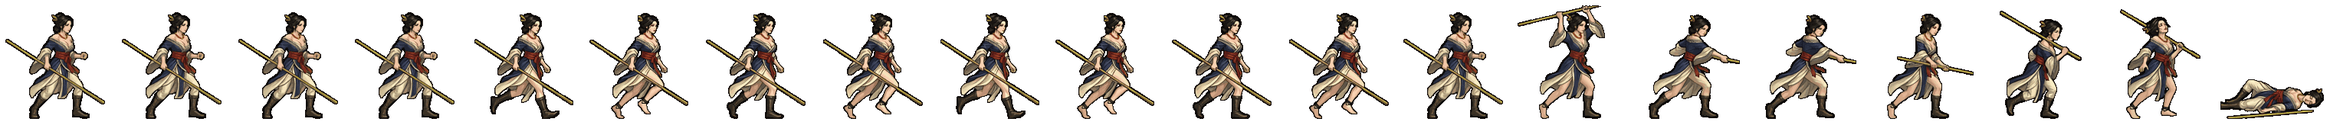
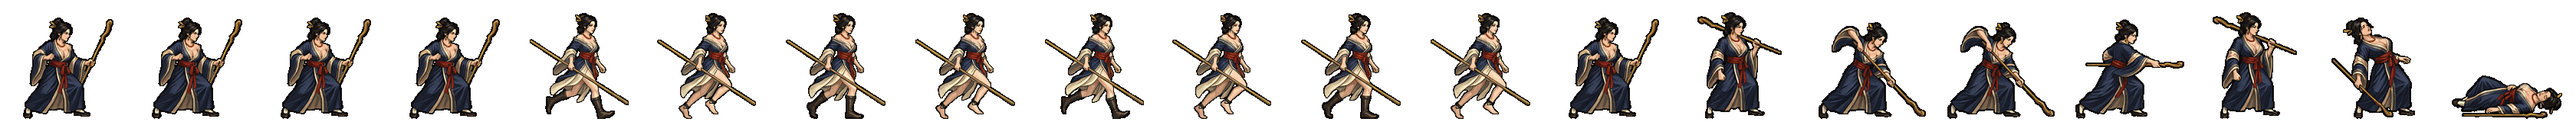
유천간 띠: 동작 8컷만 새로 (제미나이 u/0 · 초상만) — 남색 도포·붉은 띠·벼이삭 비녀, 지팡이 전체가 칸 안 (걷기는 그대로)
Claude-Session: https://claude.ai/code/session_01TRiuN9kn81xgdziumEqNAF

Changed region(s): [[0.0, 0.0312, 1.0, 0.9688]]

diff --git a/src/realm/data/spritePx.ts b/src/realm/data/spritePx.ts
@@ -1,2 +1,2 @@
 /** public/realm/anim-px/manifest.json 의 사본 — tools/sprite-normalize.mjs 가 만든다 (손으로 고치지 말 것). 칸 [가로, 세로] · feet = 발 줄(칸 위에서 y) · bodyPx = 서 있는 몸 키 */
-export const SPRITE_PX: Readonly<Record<string, { readonly cell: readonly [number, number]; readonly feet: number; readonly bodyPx: number; readonly kind: 'general' | 'soldier' | 'folk' | 'crowd'; readonly cells: number }>> = {"axe":{"cell":[166,128],"feet":126,"bodyPx":124,"kind":"soldier","cells":20},"bandit-chief":{"cell":[116,128],"feet":126,"bodyPx":117,"kind":"soldier","cells":20},"bandit-club":{"cell":[127,128],"feet":126,"bodyPx":116,"kind":"soldier","cells":20},"boat":{"cell":[269,128],"feet":126,"bodyPx":126,"kind":"soldier","cells":20},"bow":{"cell":[503,128],"feet":126,"bodyPx":127,"kind":"soldier","cells":20},"crossbow":{"cell":[614,128],"feet":126,"bodyPx":126,"kind":"soldier","cells":20},"gen-adogan":{"cell":[144,160],"feet":156,"bodyPx":70,"kind":"general","cells":20},"gen-alpyeong":{"cell":[144,160],"feet":156,"bodyPx":70,"kind":"general","cells":20},"gen-ara":{"cell":[160,160],"feet":156,"bodyPx":70,"kind":"general","cells":20},"gen-areum":{"cell":[160,160],"feet":156,"bodyPx":70,"kind":"general","cells":20},"gen-aryeong":{"cell":[208,160],"feet":156,"bodyPx":70,"kind":"general","cells":20},"gen-bakdal":{"cell":[160,160],"feet":156,"bodyPx":70,"kind":"general","cells":20},"gen-baram":{"cell":[176,160],"feet":156,"bodyPx":70,"kind":"general","cells":20},"gen-bdanbi":{"cell":[152,160],"feet":156,"bodyPx":70,"kind":"general","cells":20},"gen-beom":{"cell":[168,160],"feet":156,"bodyPx":70,"kind":"general","cells":20},"gen-beombal":{"cell":[216,160],"feet":156,"bodyPx":70,"kind":"general","cells":20},"gen-beomi":{"cell":[160,160],"feet":156,"bodyPx":70,"kind":"general","cells":20},"gen-bira":{"cell":[176,160],"feet":156,"bodyPx":70,"kind":"general","cells":20},"gen-biryu":{"cell":[160,160],"feet":156,"bodyPx":73,"kind":"general","cells":20},"gen-budeul":{"cell":[248,160],"feet":156,"bodyPx":70,"kind":"general","cells":20},"gen-byeol":{"cell":[176,160],"feet":156,"bodyPx":70,"kind":"general","cells":20},"gen-daemusin":{"cell":[152,160],"feet":156,"bodyPx":70,"kind":"general","cells":20},"gen-daeso":{"cell":[176,160],"feet":156,"bodyPx":70,"kind":"general","cells":20},"gen-dallae2":{"cell":[168,160],"feet":156,"bodyPx":70,"kind":"general","cells":20},"gen-dalli":{"cell":[152,160],"feet":156,"bodyPx":70,"kind":"general","cells":20},"gen-damul":{"cell":[152,160],"feet":156,"bodyPx":70,"kind":"general","cells":20},"gen-danbi":{"cell":[152,160],"feet":156,"bodyPx":70,"kind":"general","cells":20},"gen-dangung":{"cell":[192,160],"feet":156,"bodyPx":70,"kind":"general","cells":20},"gen-darae":{"cell":[152,160],"feet":156,"bodyPx":70,"kind":"general","cells":20},"gen-dokmudeom":{"cell":[176,160],"feet":156,"bodyPx":70,"kind":"general","cells":20},"gen-duman":{"cell":[248,160],"feet":156,"bodyPx":70,"kind":"general","cells":20},"gen-eomni":{"cell":[160,160],"feet":156,"bodyPx":70,"kind":"general","cells":20},"gen-eureum":{"cell":[144,160],"feet":156,"bodyPx":70,"kind":"general","cells":20},"gen-g-bow":{"cell":[144,160],"feet":156,"bodyPx":70,"kind":"general","cells":20},"gen-g-spear":{"cell":[208,160],"feet":156,"bodyPx":70,"kind":"general","cells":20},"gen-g-sword":{"cell":[192,160],"feet":156,"bodyPx":70,"kind":"general","cells":20},"gen-gaennae":{"cell":[232,160],"feet":156,"bodyPx":70,"kind":"general","cells":20},"gen-gamsil":{"cell":[160,160],"feet":156,"bodyPx":70,"kind":"general","cells":20},"gen-gaon":{"cell":[152,160],"feet":156,"bodyPx":70,"kind":"general","cells":20},"gen-geota":{"cell":[192,160],"feet":156,"bodyPx":69,"kind":"general","cells":20},"gen-geumbawi":{"cell":[160,160],"feet":156,"bodyPx":70,"kind":"general","cells":20},"gen-geumha":{"cell":[192,160],"feet":156,"bodyPx":72,"kind":"general","cells":20},"gen-goeun":{"cell":[144,160],"feet":156,"bodyPx":70,"kind":"general","cells":20},"gen-gom":{"cell":[168,160],"feet":156,"bodyPx":70,"kind":"general","cells":20},"gen-gomok":{"cell":[152,160],"feet":156,"bodyPx":70,"kind":"general","cells":20},"gen-gureum":{"cell":[216,160],"feet":156,"bodyPx":70,"kind":"general","cells":20},"gen-guryema":{"cell":[152,160],"feet":156,"bodyPx":70,"kind":"general","cells":20},"gen-gwaeyu":{"cell":[200,160],"feet":156,"bodyPx":70,"kind":"general","cells":20},"gen-haebi":{"cell":[152,160],"feet":156,"bodyPx":70,"kind":"general","cells":20},"gen-haedal":{"cell":[152,160],"feet":156,"bodyPx":70,"kind":"general","cells":20},"gen-haesol":{"cell":[168,160],"feet":156,"bodyPx":70,"kind":"general","cells":20},"gen-halla":{"cell":[176,160],"feet":156,"bodyPx":70,"kind":"general","cells":20},"gen-heo":{"cell":[144,160],"feet":156,"bodyPx":70,"kind":"general","cells":20},"gen-hneoul":{"cell":[152,160],"feet":156,"bodyPx":70,"kind":"general","cells":20},"gen-hogong":{"cell":[160,160],"feet":156,"bodyPx":70,"kind":"general","cells":20},"gen-hojin":{"cell":[152,160],"feet":156,"bodyPx":70,"kind":"general","cells":20},"gen-horselord":{"cell":[144,160],"feet":156,"bodyPx":70,"kind":"general","cells":20},"gen-hwalmi":{"cell":[192,160],"feet":156,"bodyPx":70,"kind":"general","cells":20},"gen-hyeokgeose":{"cell":[160,160],"feet":156,"bodyPx":70,"kind":"general","cells":20},"gen-hyeopbo":{"cell":[168,160],"feet":156,"bodyPx":70,"kind":"general","cells":20},"gen-irang":{"cell":[160,160],"feet":156,"bodyPx":70,"kind":"general","cells":20},"gen-jibaekho":{"cell":[224,160],"feet":156,"bodyPx":70,"kind":"general","cells":20},"gen-jinha":{"cell":[168,160],"feet":156,"bodyPx":70,"kind":"general","cells":20},"gen-jita":{"cell":[144,160],"feet":156,"bodyPx":70,"kind":"general","cells":20},"gen-jumong":{"cell":[144,160],"feet":156,"bodyPx":70,"kind":"general","cells":20},"gen-keundol":{"cell":[152,160],"feet":156,"bodyPx":70,"kind":"general","cells":20},"gen-maehwa":{"cell":[144,160],"feet":156,"bodyPx":70,"kind":"general","cells":20},"gen-maenun":{"cell":[144,160],"feet":156,"bodyPx":70,"kind":"general","cells":20},"gen-malgalgi":{"cell":[168,160],"feet":156,"bodyPx":70,"kind":"general","cells":20},"gen-mari":{"cell":[152,160],"feet":156,"bodyPx":70,"kind":"general","cells":20},"gen-maro":{"cell":[160,160],"feet":156,"bodyPx":70,"kind":"general","cells":20},"gen-maryeo":{"cell":[152,160],"feet":156,"bodyPx":70,"kind":"general","cells":20},"gen-mdallae":{"cell":[168,160],"feet":156,"bodyPx":70,"kind":"general","cells":20},"gen-mir":{"cell":[144,160],"feet":156,"bodyPx":70,"kind":"general","cells":20},"gen-mount":{"cell":[232,160],"feet":156,"bodyPx":73,"kind":"general","cells":20},"gen-mulbeom":{"cell":[160,160],"feet":156,"bodyPx":70,"kind":"general","cells":20},"gen-mulsae":{"cell":[168,160],"feet":156,"bodyPx":70,"kind":"general","cells":20},"gen-musoe":{"cell":[152,160],"feet":156,"bodyPx":70,"kind":"general","cells":20},"gen-noeul":{"cell":[160,160],"feet":156,"bodyPx":70,"kind":"general","cells":20},"gen-nuri":{"cell":[168,160],"feet":156,"bodyPx":70,"kind":"general","cells":20},"gen-ocheongan":{"cell":[168,160],"feet":156,"bodyPx":70,"kind":"general","cells":20},"gen-odi":{"cell":[152,160],"feet":156,"bodyPx":70,"kind":"general","cells":20},"gen-odogan":{"cell":[168,160],"feet":156,"bodyPx":70,"kind":"general","cells":20},"gen-ogan":{"cell":[152,160],"feet":156,"bodyPx":70,"kind":"general","cells":20},"gen-oi":{"cell":[152,160],"feet":156,"bodyPx":70,"kind":"general","cells":20},"gen-olddaeso":{"cell":[144,160],"feet":156,"bodyPx":70,"kind":"general","cells":20},"gen-onjo":{"cell":[152,160],"feet":156,"bodyPx":70,"kind":"general","cells":20},"gen-pidogan":{"cell":[152,160],"feet":156,"bodyPx":70,"kind":"general","cells":20},"gen-sagong":{"cell":[160,160],"feet":156,"bodyPx":70,"kind":"general","cells":20},"gen-sdallae":{"cell":[168,160],"feet":156,"bodyPx":70,"kind":"general","cells":20},"gen-sincheongan":{"cell":[168,160],"feet":156,"bodyPx":70,"kind":"general","cells":20},"gen-singwigan":{"cell":[208,160],"feet":156,"bodyPx":70,"kind":"general","cells":20},"gen-sinneoul":{"cell":[176,160],"feet":156,"bodyPx":70,"kind":"general","cells":20},"gen-sobeol":{"cell":[152,160],"feet":156,"bodyPx":70,"kind":"general","cells":20},"gen-soebi":{"cell":[160,160],"feet":156,"bodyPx":70,"kind":"general","cells":20},"gen-soebo":{"cell":[208,160],"feet":156,"bodyPx":72,"kind":"general","cells":20},"gen-soenun":{"cell":[248,160],"feet":156,"bodyPx":70,"kind":"general","cells":20},"gen-sogeumbi":{"cell":[232,160],"feet":156,"bodyPx":70,"kind":"general","cells":20},"gen-songbi":{"cell":[152,160],"feet":156,"bodyPx":70,"kind":"general","cells":20},"gen-songyang":{"cell":[136,160],"feet":156,"bodyPx":70,"kind":"general","cells":20},"gen-sori":{"cell":[208,160],"feet":156,"bodyPx":70,"kind":"general","cells":20},"gen-soseono":{"cell":[208,160],"feet":156,"bodyPx":70,"kind":"general","cells":20},"gen-suro":{"cell":[160,160],"feet":156,"bodyPx":70,"kind":"general","cells":20},"gen-tahae":{"cell":[152,160],"feet":156,"bodyPx":70,"kind":"general","cells":20},"gen-tneoul":{"cell":[152,160],"feet":156,"bodyPx":70,"kind":"general","cells":20},"gen-w-bow":{"cell":[144,160],"feet":156,"bodyPx":70,"kind":"general","cells":20},"gen-w-spear":{"cell":[176,160],"feet":156,"bodyPx":70,"kind":"general","cells":20},"gen-waechief":{"cell":[152,160],"feet":156,"bodyPx":70,"kind":"general","cells":20},"gen-wan":{"cell":[144,160],"feet":156,"bodyPx":70,"kind":"general","cells":20},"gen-yeodogan":{"cell":[176,160],"feet":156,"bodyPx":70,"kind":"general","cells":20},"gen-yucheongan":{"cell":[152,160],"feet":156,"bodyPx":70,"kind":"general","cells":20},"gen-yusugan":{"cell":[168,160],"feet":156,"bodyPx":70,"kind":"general","cells":20},"horse":{"cell":[186,128],"feet":126,"bodyPx":127,"kind":"soldier","cells":20},"marine":{"cell":[298,128],"feet":126,"bodyPx":126,"kind":"soldier","cells":20},"migrant":{"cell":[82,128],"feet":126,"bodyPx":114,"kind":"folk","cells":8},"militia":{"cell":[134,128],"feet":126,"bodyPx":119,"kind":"soldier","cells":20},"pike":{"cell":[380,128],"feet":126,"bodyPx":124,"kind":"soldier","cells":20},"pirate-captain":{"cell":[114,128],"feet":126,"bodyPx":115,"kind":"soldier","cells":20},"pirate-sword":{"cell":[122,128],"feet":126,"bodyPx":114,"kind":"soldier","cells":20},"shield":{"cell":[254,128],"feet":126,"bodyPx":128,"kind":"soldier","cells":20},"spear":{"cell":[438,128],"feet":126,"bodyPx":126,"kind":"soldier","cells":20},"villager-builder":{"cell":[88,128],"feet":126,"bodyPx":113,"kind":"folk","cells":8},"villager-farmer":{"cell":[100,128],"feet":126,"bodyPx":115,"kind":"folk","cells":8},"villager-porter":{"cell":[108,128],"feet":126,"bodyPx":115,"kind":"folk","cells":8},"villager-woman":{"cell":[63,128],"feet":126,"bodyPx":113,"kind":"folk","cells":8},"crowd-b1":{"cell":[69,96],"feet":96,"bodyPx":96,"kind":"crowd","cells":1},"crowd-b2":{"cell":[54,96],"feet":96,"bodyPx":96,"kind":"crowd","cells":1},"crowd-b3":{"cell":[47,96],"feet":96,"bodyPx":96,"kind":"crowd","cells":1},"crowd-b4":{"cell":[49,96],"feet":96,"bodyPx":96,"kind":"crowd","cells":1},"crowd-b5":{"cell":[57,96],"feet":96,"bodyPx":96,"kind":"crowd","cells":1},"crowd-b6":{"cell":[55,96],"feet":96,"bodyPx":96,"kind":"crowd","cells":1},"crowd-f1":{"cell":[69,96],"feet":96,"bodyPx":96,"kind":"crowd","cells":1},"crowd-f2":{"cell":[55,96],"feet":96,"bodyPx":96,"kind":"crowd","cells":1},"crowd-f3":{"cell":[45,96],"feet":96,"bodyPx":96,"kind":"crowd","cells":1},"crowd-f4":{"cell":[53,96],"feet":96,"bodyPx":96,"kind":"crowd","cells":1},"crowd-f5":{"cell":[69,96],"feet":96,"bodyPx":96,"kind":"crowd","cells":1},"crowd-f6":{"cell":[64,96],"feet":96,"bodyPx":96,"kind":"crowd","cells":1},"gen-dalbit":{"cell":[96,72],"feet":72,"bodyPx":72,"kind":"general","cells":20}}
+export const SPRITE_PX: Readonly<Record<string, { readonly cell: readonly [number, number]; readonly feet: number; readonly bodyPx: number; readonly kind: 'general' | 'soldier' | 'folk' | 'crowd'; readonly cells: number }>> = {"axe":{"cell":[166,128],"feet":126,"bodyPx":124,"kind":"soldier","cells":20},"bandit-chief":{"cell":[116,128],"feet":126,"bodyPx":117,"kind":"soldier","cells":20},"bandit-club":{"cell":[127,128],"feet":126,"bodyPx":116,"kind":"soldier","cells":20},"boat":{"cell":[269,128],"feet":126,"bodyPx":126,"kind":"soldier","cells":20},"bow":{"cell":[503,128],"feet":126,"bodyPx":127,"kind":"soldier","cells":20},"crossbow":{"cell":[614,128],"feet":126,"bodyPx":126,"kind":"soldier","cells":20},"gen-adogan":{"cell":[144,160],"feet":156,"bodyPx":70,"kind":"general","cells":20},"gen-alpyeong":{"cell":[144,160],"feet":156,"bodyPx":70,"kind":"general","cells":20},"gen-ara":{"cell":[160,160],"feet":156,"bodyPx":70,"kind":"general","cells":20},"gen-areum":{"cell":[160,160],"feet":156,"bodyPx":70,"kind":"general","cells":20},"gen-aryeong":{"cell":[208,160],"feet":156,"bodyPx":70,"kind":"general","cells":20},"gen-bakdal":{"cell":[160,160],"feet":156,"bodyPx":70,"kind":"general","cells":20},"gen-baram":{"cell":[176,160],"feet":156,"bodyPx":70,"kind":"general","cells":20},"gen-bdanbi":{"cell":[152,160],"feet":156,"bodyPx":70,"kind":"general","cells":20},"gen-beom":{"cell":[168,160],"feet":156,"bodyPx":70,"kind":"general","cells":20},"gen-beombal":{"cell":[216,160],"feet":156,"bodyPx":70,"kind":"general","cells":20},"gen-beomi":{"cell":[160,160],"feet":156,"bodyPx":70,"kind":"general","cells":20},"gen-bira":{"cell":[176,160],"feet":156,"bodyPx":70,"kind":"general","cells":20},"gen-biryu":{"cell":[160,160],"feet":156,"bodyPx":73,"kind":"general","cells":20},"gen-budeul":{"cell":[248,160],"feet":156,"bodyPx":70,"kind":"general","cells":20},"gen-byeol":{"cell":[176,160],"feet":156,"bodyPx":70,"kind":"general","cells":20},"gen-daemusin":{"cell":[152,160],"feet":156,"bodyPx":70,"kind":"general","cells":20},"gen-daeso":{"cell":[176,160],"feet":156,"bodyPx":70,"kind":"general","cells":20},"gen-dallae2":{"cell":[168,160],"feet":156,"bodyPx":70,"kind":"general","cells":20},"gen-dalli":{"cell":[152,160],"feet":156,"bodyPx":70,"kind":"general","cells":20},"gen-damul":{"cell":[152,160],"feet":156,"bodyPx":70,"kind":"general","cells":20},"gen-danbi":{"cell":[152,160],"feet":156,"bodyPx":70,"kind":"general","cells":20},"gen-dangung":{"cell":[192,160],"feet":156,"bodyPx":70,"kind":"general","cells":20},"gen-darae":{"cell":[152,160],"feet":156,"bodyPx":70,"kind":"general","cells":20},"gen-dokmudeom":{"cell":[176,160],"feet":156,"bodyPx":70,"kind":"general","cells":20},"gen-duman":{"cell":[248,160],"feet":156,"bodyPx":70,"kind":"general","cells":20},"gen-eomni":{"cell":[160,160],"feet":156,"bodyPx":70,"kind":"general","cells":20},"gen-eureum":{"cell":[144,160],"feet":156,"bodyPx":70,"kind":"general","cells":20},"gen-g-bow":{"cell":[144,160],"feet":156,"bodyPx":70,"kind":"general","cells":20},"gen-g-spear":{"cell":[208,160],"feet":156,"bodyPx":70,"kind":"general","cells":20},"gen-g-sword":{"cell":[192,160],"feet":156,"bodyPx":70,"kind":"general","cells":20},"gen-gaennae":{"cell":[232,160],"feet":156,"bodyPx":70,"kind":"general","cells":20},"gen-gamsil":{"cell":[160,160],"feet":156,"bodyPx":70,"kind":"general","cells":20},"gen-gaon":{"cell":[152,160],"feet":156,"bodyPx":70,"kind":"general","cells":20},"gen-geota":{"cell":[192,160],"feet":156,"bodyPx":69,"kind":"general","cells":20},"gen-geumbawi":{"cell":[160,160],"feet":156,"bodyPx":70,"kind":"general","cells":20},"gen-geumha":{"cell":[192,160],"feet":156,"bodyPx":72,"kind":"general","cells":20},"gen-goeun":{"cell":[144,160],"feet":156,"bodyPx":70,"kind":"general","cells":20},"gen-gom":{"cell":[168,160],"feet":156,"bodyPx":70,"kind":"general","cells":20},"gen-gomok":{"cell":[152,160],"feet":156,"bodyPx":70,"kind":"general","cells":20},"gen-gureum":{"cell":[216,160],"feet":156,"bodyPx":70,"kind":"general","cells":20},"gen-guryema":{"cell":[152,160],"feet":156,"bodyPx":70,"kind":"general","cells":20},"gen-gwaeyu":{"cell":[200,160],"feet":156,"bodyPx":70,"kind":"general","cells":20},"gen-haebi":{"cell":[152,160],"feet":156,"bodyPx":70,"kind":"general","cells":20},"gen-haedal":{"cell":[152,160],"feet":156,"bodyPx":70,"kind":"general","cells":20},"gen-haesol":{"cell":[168,160],"feet":156,"bodyPx":70,"kind":"general","cells":20},"gen-halla":{"cell":[176,160],"feet":156,"bodyPx":70,"kind":"general","cells":20},"gen-heo":{"cell":[144,160],"feet":156,"bodyPx":70,"kind":"general","cells":20},"gen-hneoul":{"cell":[152,160],"feet":156,"bodyPx":70,"kind":"general","cells":20},"gen-hogong":{"cell":[160,160],"feet":156,"bodyPx":70,"kind":"general","cells":20},"gen-hojin":{"cell":[152,160],"feet":156,"bodyPx":70,"kind":"general","cells":20},"gen-horselord":{"cell":[144,160],"feet":156,"bodyPx":70,"kind":"general","cells":20},"gen-hwalmi":{"cell":[192,160],"feet":156,"bodyPx":70,"kind":"general","cells":20},"gen-hyeokgeose":{"cell":[160,160],"feet":156,"bodyPx":70,"kind":"general","cells":20},"gen-hyeopbo":{"cell":[168,160],"feet":156,"bodyPx":70,"kind":"general","cells":20},"gen-irang":{"cell":[160,160],"feet":156,"bodyPx":70,"kind":"general","cells":20},"gen-jibaekho":{"cell":[224,160],"feet":156,"bodyPx":70,"kind":"general","cells":20},"gen-jinha":{"cell":[168,160],"feet":156,"bodyPx":70,"kind":"general","cells":20},"gen-jita":{"cell":[144,160],"feet":156,"bodyPx":70,"kind":"general","cells":20},"gen-jumong":{"cell":[144,160],"feet":156,"bodyPx":70,"kind":"general","cells":20},"gen-keundol":{"cell":[152,160],"feet":156,"bodyPx":70,"kind":"general","cells":20},"gen-maehwa":{"cell":[144,160],"feet":156,"bodyPx":70,"kind":"general","cells":20},"gen-maenun":{"cell":[144,160],"feet":156,"bodyPx":70,"kind":"general","cells":20},"gen-malgalgi":{"cell":[168,160],"feet":156,"bodyPx":70,"kind":"general","cells":20},"gen-mari":{"cell":[152,160],"feet":156,"bodyPx":70,"kind":"general","cells":20},"gen-maro":{"cell":[160,160],"feet":156,"bodyPx":70,"kind":"general","cells":20},"gen-maryeo":{"cell":[152,160],"feet":156,"bodyPx":70,"kind":"general","cells":20},"gen-mdallae":{"cell":[168,160],"feet":156,"bodyPx":70,"kind":"general","cells":20},"gen-mir":{"cell":[144,160],"feet":156,"bodyPx":70,"kind":"general","cells":20},"gen-mount":{"cell":[232,160],"feet":156,"bodyPx":73,"kind":"general","cells":20},"gen-mulbeom":{"cell":[160,160],"feet":156,"bodyPx":70,"kind":"general","cells":20},"gen-mulsae":{"cell":[168,160],"feet":156,"bodyPx":70,"kind":"general","cells":20},"gen-musoe":{"cell":[152,160],"feet":156,"bodyPx":70,"kind":"general","cells":20},"gen-noeul":{"cell":[160,160],"feet":156,"bodyPx":70,"kind":"general","cells":20},"gen-nuri":{"cell":[168,160],"feet":156,"bodyPx":70,"kind":"general","cells":20},"gen-ocheongan":{"cell":[168,160],"feet":156,"bodyPx":70,"kind":"general","cells":20},"gen-odi":{"cell":[152,160],"feet":156,"bodyPx":70,"kind":"general","cells":20},"gen-odogan":{"cell":[168,160],"feet":156,"bodyPx":70,"kind":"general","cells":20},"gen-ogan":{"cell":[152,160],"feet":156,"bodyPx":70,"kind":"general","cells":20},"gen-oi":{"cell":[152,160],"feet":156,"bodyPx":70,"kind":"general","cells":20},"gen-olddaeso":{"cell":[144,160],"feet":156,"bodyPx":70,"kind":"general","cells":20},"gen-onjo":{"cell":[152,160],"feet":156,"bodyPx":70,"kind":"general","cells":20},"gen-pidogan":{"cell":[152,160],"feet":156,"bodyPx":70,"kind":"general","cells":20},"gen-sagong":{"cell":[160,160],"feet":156,"bodyPx":70,"kind":"general","cells":20},"gen-sdallae":{"cell":[168,160],"feet":156,"bodyPx":70,"kind":"general","cells":20},"gen-sincheongan":{"cell":[168,160],"feet":156,"bodyPx":70,"kind":"general","cells":20},"gen-singwigan":{"cell":[208,160],"feet":156,"bodyPx":70,"kind":"general","cells":20},"gen-sinneoul":{"cell":[176,160],"feet":156,"bodyPx":70,"kind":"general","cells":20},"gen-sobeol":{"cell":[152,160],"feet":156,"bodyPx":70,"kind":"general","cells":20},"gen-soebi":{"cell":[160,160],"feet":156,"bodyPx":70,"kind":"general","cells":20},"gen-soebo":{"cell":[208,160],"feet":156,"bodyPx":72,"kind":"general","cells":20},"gen-soenun":{"cell":[248,160],"feet":156,"bodyPx":70,"kind":"general","cells":20},"gen-sogeumbi":{"cell":[232,160],"feet":156,"bodyPx":70,"kind":"general","cells":20},"gen-songbi":{"cell":[152,160],"feet":156,"bodyPx":70,"kind":"general","cells":20},"gen-songyang":{"cell":[136,160],"feet":156,"bodyPx":70,"kind":"general","cells":20},"gen-sori":{"cell":[208,160],"feet":156,"bodyPx":70,"kind":"general","cells":20},"gen-soseono":{"cell":[208,160],"feet":156,"bodyPx":70,"kind":"general","cells":20},"gen-suro":{"cell":[160,160],"feet":156,"bodyPx":70,"kind":"general","cells":20},"gen-tahae":{"cell":[152,160],"feet":156,"bodyPx":70,"kind":"general","cells":20},"gen-tneoul":{"cell":[152,160],"feet":156,"bodyPx":70,"kind":"general","cells":20},"gen-w-bow":{"cell":[144,160],"feet":156,"bodyPx":70,"kind":"general","cells":20},"gen-w-spear":{"cell":[176,160],"feet":156,"bodyPx":70,"kind":"general","cells":20},"gen-waechief":{"cell":[152,160],"feet":156,"bodyPx":70,"kind":"general","cells":20},"gen-wan":{"cell":[144,160],"feet":156,"bodyPx":70,"kind":"general","cells":20},"gen-yeodogan":{"cell":[176,160],"feet":156,"bodyPx":70,"kind":"general","cells":20},"gen-yucheongan":{"cell":[168,160],"feet":156,"bodyPx":70,"kind":"general","cells":20},"gen-yusugan":{"cell":[168,160],"feet":156,"bodyPx":70,"kind":"general","cells":20},"horse":{"cell":[186,128],"feet":126,"bodyPx":127,"kind":"soldier","cells":20},"marine":{"cell":[298,128],"feet":126,"bodyPx":126,"kind":"soldier","cells":20},"migrant":{"cell":[82,128],"feet":126,"bodyPx":114,"kind":"folk","cells":8},"militia":{"cell":[134,128],"feet":126,"bodyPx":119,"kind":"soldier","cells":20},"pike":{"cell":[380,128],"feet":126,"bodyPx":124,"kind":"soldier","cells":20},"pirate-captain":{"cell":[114,128],"feet":126,"bodyPx":115,"kind":"soldier","cells":20},"pirate-sword":{"cell":[122,128],"feet":126,"bodyPx":114,"kind":"soldier","cells":20},"shield":{"cell":[254,128],"feet":126,"bodyPx":128,"kind":"soldier","cells":20},"spear":{"cell":[438,128],"feet":126,"bodyPx":126,"kind":"soldier","cells":20},"villager-builder":{"cell":[88,128],"feet":126,"bodyPx":113,"kind":"folk","cells":8},"villager-farmer":{"cell":[100,128],"feet":126,"bodyPx":115,"kind":"folk","cells":8},"villager-porter":{"cell":[108,128],"feet":126,"bodyPx":115,"kind":"folk","cells":8},"villager-woman":{"cell":[63,128],"feet":126,"bodyPx":113,"kind":"folk","cells":8},"crowd-b1":{"cell":[69,96],"feet":96,"bodyPx":96,"kind":"crowd","cells":1},"crowd-b2":{"cell":[54,96],"feet":96,"bodyPx":96,"kind":"crowd","cells":1},"crowd-b3":{"cell":[47,96],"feet":96,"bodyPx":96,"kind":"crowd","cells":1},"crowd-b4":{"cell":[49,96],"feet":96,"bodyPx":96,"kind":"crowd","cells":1},"crowd-b5":{"cell":[57,96],"feet":96,"bodyPx":96,"kind":"crowd","cells":1},"crowd-b6":{"cell":[55,96],"feet":96,"bodyPx":96,"kind":"crowd","cells":1},"crowd-f1":{"cell":[69,96],"feet":96,"bodyPx":96,"kind":"crowd","cells":1},"crowd-f2":{"cell":[55,96],"feet":96,"bodyPx":96,"kind":"crowd","cells":1},"crowd-f3":{"cell":[45,96],"feet":96,"bodyPx":96,"kind":"crowd","cells":1},"crowd-f4":{"cell":[53,96],"feet":96,"bodyPx":96,"kind":"crowd","cells":1},"crowd-f5":{"cell":[69,96],"feet":96,"bodyPx":96,"kind":"crowd","cells":1},"crowd-f6":{"cell":[64,96],"feet":96,"bodyPx":96,"kind":"crowd","cells":1},"gen-dalbit":{"cell":[96,72],"feet":72,"bodyPx":72,"kind":"general","cells":20}}

diff --git a/src/ui/realm/battle-strikes.ts b/src/ui/realm/battle-strikes.ts
@@ -143,7 +143,7 @@ const CONTACT: Readonly<Record<string, [number, number, number]>> = {
   'gen-haebi': [14, 0.87, 0.73], 'gen-heo': [14, 0.94, 0.46], 'gen-hyeokgeose': [14, 0.83, 0.94],
   'gen-hyeopbo': [14, .93, .21], 'gen-malgalgi': [14, 0.88, 0.28], 'gen-mari': [14, .98, .47],
   'gen-oi': [14, .98, .48], 'gen-onjo': [14, 0.83, 0.93], 'gen-soebi': [14, 0.80, 0.95],
-  'gen-soseono': [14, 0.99, 0.36], 'gen-bdanbi': [14, 0.90, 0.67], 'gen-dallae2': [14, 0.97, 0.16], 'gen-maryeo': [14, 0.91, 0.79], 'gen-horselord': [14, 0.89, 0.25], 'gen-olddaeso': [14, 0.93, 0.91], 'gen-maro': [14, 0.97, 0.49], 'gen-gwaeyu': [14, 0.98, 0.71], 'gen-daemusin': [14, 0.91, 0.38], 'gen-tahae': [14, 0.91, 0.74], 'gen-ocheongan': [14, 0.82, 0.49], 'gen-yusugan': [14, 0.95, 0.70], 'gen-odogan': [14, 0.96, 0.33], 'gen-pidogan': [14, 0.94, 0.75], 'gen-yeodogan': [14, 0.93, 0.57], 'gen-adogan': [14, 0.95, 0.41], 'gen-musoe': [14, 0.94, 0.39], 'gen-suro': [14, 0.82, 0.53], 'gen-waechief': [14, 0.95, 0.68], 'gen-hojin': [14, 0.97, 0.64], 'gen-jita': [14, 0.93, 0.29], 'gen-guryema': [14, 0.89, 0.28], 'gen-jibaekho': [14, 0.97, 0.33], 'gen-sobeol': [14, 0.95, 0.33], 'gen-alpyeong': [14, 0.95, 0.54], 'gen-hogong': [14, 0.98, 0.27], 'gen-geumbawi': [14, 0.91, 0.92], 'gen-keundol': [14, 0.90, 0.68], 'gen-jinha': [14, 0.76, 0.93], 'gen-duman': [14, 0.97, 0.39], 'gen-gomok': [14, 0.94, 0.57], 'gen-hneoul': [14, 0.92, 0.27], 'gen-tneoul': [14, 0.84, 0.57], 'gen-sdallae': [14, 0.89, 0.29], 'gen-yucheongan': [14, 0.94, 0.48], 'gen-sincheongan': [14, .91, .60], 'gen-singwigan': [14, 0.98, 0.21], 'gen-mdallae': [14, 0.98, 0.29], 'gen-mulbeom': [14, 0.95, 0.39], 'gen-beomi': [14, 0.88, 0.43], 'gen-danbi': [14, 0.90, 0.30], 'gen-mulsae': [14, 0.92, 0.46], 'gen-darae': [14, 0.89, 0.29], 'gen-mir': [14, 0.91, 0.33], 'gen-wan': [14, 0.94, 0.30], 'gen-gom': [14, 0.94, 0.74], 'gen-sagong': [14, 0.79, 0.96], 'gen-halla': [14, 0.86, 0.46], 'gen-areum': [14, 0.86, 0.65], 'gen-dokmudeom': [14, 0.95, 0.28], 'gen-beom': [14, 0.98, 0.28], 'gen-baram': [14, 0.96, 0.24], 'gen-goeun': [14, 0.95, 0.66], 'gen-byeol': [14, .88, .60], 'gen-sinneoul': [14, 0.95, 0.33], 'gen-haesol': [14, 0.95, 0.39], 'gen-odi': [14, 0.95, 0.37], 'gen-irang': [14, 0.86, 0.30], 'gen-dalli': [14, 0.89, 0.32], 'gen-bakdal': [14, 0.94, 0.27], 'gen-noeul': [14, 0.88, 0.27], 'gen-maehwa': [14, 0.90, 0.31], 'gen-gaon': [14, 0.98, 0.48], 'gen-eomni': [14, 0.96, 0.42], 'gen-nuri': [14, 0.98, 0.42], 'gen-bira': [14, 0.88, 0.42], 'gen-gureum': [14, .94, .40],
+  'gen-soseono': [14, 0.99, 0.36], 'gen-bdanbi': [14, 0.90, 0.67], 'gen-dallae2': [14, 0.97, 0.16], 'gen-maryeo': [14, 0.91, 0.79], 'gen-horselord': [14, 0.89, 0.25], 'gen-olddaeso': [14, 0.93, 0.91], 'gen-maro': [14, 0.97, 0.49], 'gen-gwaeyu': [14, 0.98, 0.71], 'gen-daemusin': [14, 0.91, 0.38], 'gen-tahae': [14, 0.91, 0.74], 'gen-ocheongan': [14, 0.82, 0.49], 'gen-yusugan': [14, 0.95, 0.70], 'gen-odogan': [14, 0.96, 0.33], 'gen-pidogan': [14, 0.94, 0.75], 'gen-yeodogan': [14, 0.93, 0.57], 'gen-adogan': [14, 0.95, 0.41], 'gen-musoe': [14, 0.94, 0.39], 'gen-suro': [14, 0.82, 0.53], 'gen-waechief': [14, 0.95, 0.68], 'gen-hojin': [14, 0.97, 0.64], 'gen-jita': [14, 0.93, 0.29], 'gen-guryema': [14, 0.89, 0.28], 'gen-jibaekho': [14, 0.97, 0.33], 'gen-sobeol': [14, 0.95, 0.33], 'gen-alpyeong': [14, 0.95, 0.54], 'gen-hogong': [14, 0.98, 0.27], 'gen-geumbawi': [14, 0.91, 0.92], 'gen-keundol': [14, 0.90, 0.68], 'gen-jinha': [14, 0.76, 0.93], 'gen-duman': [14, 0.97, 0.39], 'gen-gomok': [14, 0.94, 0.57], 'gen-hneoul': [14, 0.92, 0.27], 'gen-tneoul': [14, 0.84, 0.57], 'gen-sdallae': [14, 0.89, 0.29], 'gen-yucheongan': [14, .91, .80], 'gen-sincheongan': [14, .91, .60], 'gen-singwigan': [14, 0.98, 0.21], 'gen-mdallae': [14, 0.98, 0.29], 'gen-mulbeom': [14, 0.95, 0.39], 'gen-beomi': [14, 0.88, 0.43], 'gen-danbi': [14, 0.90, 0.30], 'gen-mulsae': [14, 0.92, 0.46], 'gen-darae': [14, 0.89, 0.29], 'gen-mir': [14, 0.91, 0.33], 'gen-wan': [14, 0.94, 0.30], 'gen-gom': [14, 0.94, 0.74], 'gen-sagong': [14, 0.79, 0.96], 'gen-halla': [14, 0.86, 0.46], 'gen-areum': [14, 0.86, 0.65], 'gen-dokmudeom': [14, 0.95, 0.28], 'gen-beom': [14, 0.98, 0.28], 'gen-baram': [14, 0.96, 0.24], 'gen-goeun': [14, 0.95, 0.66], 'gen-byeol': [14, .88, .60], 'gen-sinneoul': [14, 0.95, 0.33], 'gen-haesol': [14, 0.95, 0.39], 'gen-odi': [14, 0.95, 0.37], 'gen-irang': [14, 0.86, 0.30], 'gen-dalli': [14, 0.89, 0.32], 'gen-bakdal': [14, 0.94, 0.27], 'gen-noeul': [14, 0.88, 0.27], 'gen-maehwa': [14, 0.90, 0.31], 'gen-gaon': [14, 0.98, 0.48], 'gen-eomni': [14, 0.96, 0.42], 'gen-nuri': [14, 0.98, 0.42], 'gen-bira': [14, 0.88, 0.42], 'gen-gureum': [14, .94, .40],
   'gen-biryu': [14, 0.90, 0.35], 'gen-geumha': [14, 0.94, 0.61], 'gen-geota': [14, 0.86, 0.47], 'gen-soebo': [14, 0.87, 0.57],
   'gen-gaennae': [14, 249 / 264, 47 / 160],
   'gen-budeul': [14, 266 / 280, 51 / 160],

diff --git a/src/realm/data/art.ts b/src/realm/data/art.ts
@@ -541,7 +541,7 @@ export const GEN_ANIM: Readonly<Partial<Record<string, { ar: number; body: numbe
   mdallae: { ar: 170 / 160, body: 0.906 }, // 11-08 초상대로 다시 (형: 「투구 쓰고 원본과 다르다」 · 제미나이 걷기 4×2 + 동작 4×2 → 20컷 · assets_src/realm/gemini/generals2) · 11-08 처음 · mdallae 동작 띠 다시 — 형이 구움 (굽기 꾸러미 · 검수 1·3번)
   singwigan: { ar: 204 / 160, body: 0.900 }, // 11-08 초상대로 다시 (형: 「투구 쓰고 원본과 다르다」 · 제미나이 걷기 4×2 + 동작 4×2 → 20컷 · assets_src/realm/gemini/generals2) · 11-08 처음 · singwigan 동작 띠 다시 — 형이 구움 (굽기 꾸러미 · 검수 1·3번)
   sincheongan: { ar: 185 / 160, body: 0.906 }, // 11-11 동작 8컷만 새로(제미나이 u/5 · 초상만 · 방울 지팡이 전체가 칸 안, 걷기는 그대로) · 11-08 초상대로 다시 (형: 「투구 쓰고 원본과 다르다」 · 제미나이 걷기 4×2 + 동작 4×2 → 20컷 · assets_src/realm/gemini/generals2) · 11-08 처음 · 가락 신천간(머리띠·흰 겉옷·비취 목걸이·청동 방울 지팡이 내려치기)
-  yucheongan: { ar: 155 / 160, body: 0.906 }, // 11-08 초상대로 다시 (형: 「투구 쓰고 원본과 다르다」 · 제미나이 걷기 4×2 + 동작 4×2 → 20컷 · assets_src/realm/gemini/generals2) · 11-08 처음 · yucheongan 동작 띠 다시 — 형이 구움 (굽기 꾸러미 · 검수 1·3번)
+  yucheongan: { ar: 191 / 160, body: 0.906 }, // 11-11 동작 8컷만 새로(제미나이 u/0 · 초상만 · 남색 도포·붉은 띠·벼이삭 비녀 · 지팡이 전체가 칸 안, 걷기는 그대로) · 11-08 초상대로 다시 (형: 「투구 쓰고 원본과 다르다」 · 제미나이 걷기 4×2 + 동작 4×2 → 20컷 · assets_src/realm/gemini/generals2) · 11-08 처음 · yucheongan 동작 띠 다시 — 형이 구움 (굽기 꾸러미 · 검수 1·3번)
   sdallae: { ar: 163 / 160, body: 0.906, bow: true }, // 11-08 초상대로 다시 (형: 「투구 쓰고 원본과 다르다」 · 제미나이 걷기 4×2 + 동작 4×2 → 20컷 · assets_src/realm/gemini/generals2) · 11-08 처음 · 사로 달래 · 붉은 저고리·털 망토·활
   tneoul: { ar: 157 / 160, body: 0.906 }, // 11-08 초상대로 다시 (형: 「투구 쓰고 원본과 다르다」 · 제미나이 걷기 4×2 + 동작 4×2 → 20컷 · assets_src/realm/gemini/generals2) · 11-08 처음 · 탈해 무리 뱃사람 너울 · 베 겉옷·밧줄·맨발·노
   hneoul: { ar: 150 / 160, body: 0.900, bow: true }, // 11-08 초상대로 다시 (형: 「투구 쓰고 원본과 다르다」 · 제미나이 걷기 4×2 + 동작 4×2 → 20컷 · assets_src/realm/gemini/generals2) · 11-08 처음 · 행인 너울 · 흰 털 어깨·검푸른 옷·활
